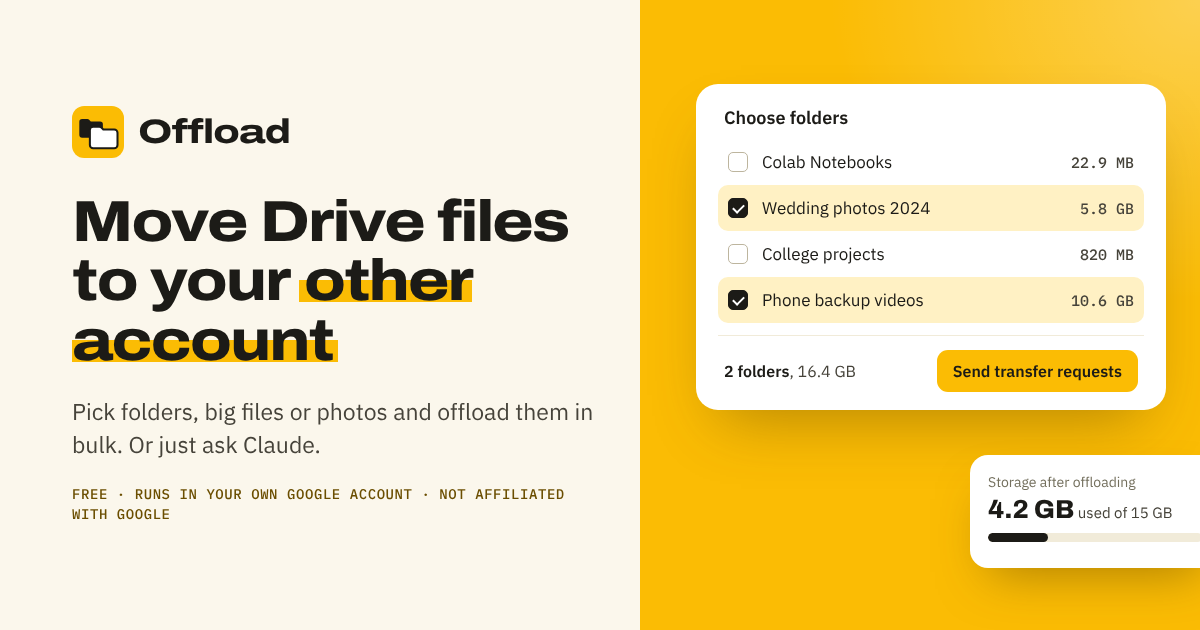
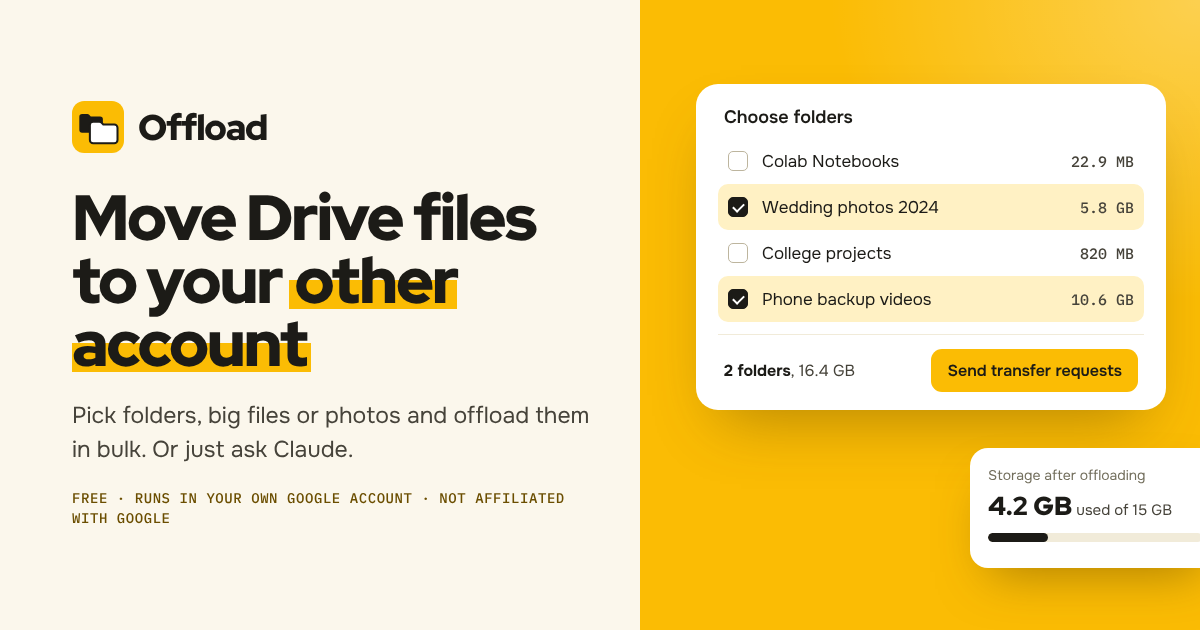
Landing: Red Hat Display headings with Onest text
Swaps Archivo and IBM Plex Sans for Red Hat Display (black weight, tight
tracking) on headings and Onest for body text; IBM Plex Mono stays for
labels and sizes. Buttons now inherit the site font (they fell back to
the browser default before). The link preview image is regenerated with
the new type.

Claude-Session: https://claude.ai/code/session_01AbxcsA9vi9YHEP1o9TvfGQ

diff --git a/app/globals.css b/app/globals.css
@@ -5,13 +5,14 @@
   --hair:#E6DFCB; --hover:#F7F1E1; --slate-soft:#F1EBD9;
   --sun:#FBBC04; --sun-deep:#E9A800; --sun-soft:#FFF1C4; --sun-ink:#6B4E00;
   --amber:#9A6516; --amber-soft:#FBF1DE; --red:#B4413A;
-  --font:"IBM Plex Sans", system-ui, sans-serif;
-  --display:"Archivo Variable", "Archivo", system-ui, sans-serif;
+  --font:"Onest Variable", "Onest", system-ui, sans-serif;
+  --display:"Red Hat Display Variable", "Red Hat Display", system-ui, sans-serif;
   --mono:"IBM Plex Mono", ui-monospace, SFMono-Regular, Menlo, monospace;
 }
 * { box-sizing:border-box; }
 html { -webkit-text-size-adjust:100%; scroll-behavior:smooth; }
 body { margin:0; background:var(--mist); color:var(--ink); font:17px/1.6 var(--font); -webkit-font-smoothing:antialiased; }
+button, input, select, textarea { font:inherit; }
 a { color:var(--ink); text-decoration-color:var(--sun-deep); text-decoration-thickness:2px; text-underline-offset:3px; }
 a:hover { text-decoration-color:var(--ink); }
 :focus-visible { outline:2px solid var(--ink); outline-offset:3px; border-radius:6px; }
@@ -27,7 +28,7 @@ a:hover { text-decoration-color:var(--ink); }
 .brand { text-decoration:none; color:var(--ink); }
 .logo { display:inline-flex; align-items:center; gap:10px; }
 .logo svg { display:block; }
-.logo-word { font-family:var(--display); font-stretch:125%; font-weight:800; font-size:21px; letter-spacing:-0.02em; color:var(--ink); }
+.logo-word { font-family:var(--display); font-weight:900; font-size:23px; letter-spacing:-0.035em; color:var(--ink); }
 .top-nav { display:flex; align-items:center; gap:24px; }
 .top-nav a:not(.btn) { color:var(--ink-2); text-decoration:none; font-size:15px; font-weight:500; }
 .top-nav a:not(.btn):hover { color:var(--ink); }
@@ -49,7 +50,7 @@ a:hover { text-decoration-color:var(--ink); }
 .news:hover { border-color:var(--ink); color:var(--ink); }
 .news-tag { background:var(--sun); color:var(--ink); font-size:12px; font-weight:700; border-radius:999px; padding:2px 9px; }
 .kicker { color:var(--sun-ink); font-family:var(--mono); font-weight:500; font-size:13px; letter-spacing:.06em; text-transform:uppercase; margin:0 0 16px; }
-h1 { font-family:var(--display); font-stretch:115%; font-size:clamp(36px, 5vw, 60px); line-height:1.02; letter-spacing:-0.03em; margin:0 0 22px; font-weight:800; text-wrap:balance; }
+h1 { font-family:var(--display); font-size:clamp(40px, 5.4vw, 66px); line-height:.98; letter-spacing:-0.035em; margin:0 0 22px; font-weight:900; text-wrap:balance; }
 /* the one signature touch: a highlighter stroke under a few key words */
 mark { color:inherit; background:linear-gradient(transparent 50%, var(--sun) 50%, var(--sun) 84%, transparent 84%); padding:0 .08em; margin:0 -.04em; -webkit-box-decoration-break:clone; box-decoration-break:clone; }
 .lede { font-size:20px; color:var(--ink-2); margin:0 0 30px; max-width:33em; text-wrap:pretty; }
@@ -70,7 +71,7 @@ mark { color:inherit; background:linear-gradient(transparent 50%, var(--sun) 50%
 .meter-label { font-size:12px; color:var(--muted); font-weight:500; }
 .meter-email { font-size:13px; color:var(--ink-2); overflow:hidden; text-overflow:ellipsis; white-space:nowrap; margin-bottom:6px; }
 .meter-val { font-size:13px; color:var(--ink-2); margin:auto 0 8px; display:flex; align-items:baseline; gap:4px; flex-wrap:wrap; }
-.meter-val b { font-family:var(--display); font-size:20px; color:var(--ink); letter-spacing:-0.01em; font-variant-numeric:tabular-nums; }
+.meter-val b { font-family:var(--display); font-weight:900; font-size:21px; color:var(--ink); letter-spacing:-0.01em; font-variant-numeric:tabular-nums; }
 .meter-warn { color:var(--red); background:#FBE9E7; font-weight:600; font-size:11.5px; padding:1px 8px; border-radius:999px; white-space:nowrap; }
 .meter-bar { height:8px; border-radius:8px; background:var(--slate-soft); overflow:hidden; }
 .meter-bar i { display:block; height:100%; background:var(--ink); border-radius:8px; transition:width .6s cubic-bezier(.2,.8,.2,1), background-color .3s; }
@@ -95,8 +96,8 @@ mark { color:inherit; background:linear-gradient(transparent 50%, var(--sun) 50%
 
 /* sections */
 .block { padding:60px 0; border-top:1px solid var(--hair); }
-h2 { font-family:var(--display); font-stretch:110%; font-weight:800; font-size:clamp(28px, 3.4vw, 40px); letter-spacing:-0.025em; line-height:1.12; margin:0 0 28px; text-wrap:balance; }
-h3 { font-family:var(--display); font-weight:700; font-size:19px; margin:0 0 6px; letter-spacing:-0.01em; line-height:1.3; }
+h2 { font-family:var(--display); font-weight:900; font-size:clamp(30px, 3.8vw, 44px); letter-spacing:-0.03em; line-height:1.04; margin:0 0 28px; text-wrap:balance; }
+h3 { font-family:var(--display); font-weight:800; font-size:20px; margin:0 0 6px; letter-spacing:-0.015em; line-height:1.3; }
 
 .steps { list-style:none; margin:0; padding:0; display:grid; grid-template-columns:repeat(3, 1fr); gap:36px; }
 .steps li { display:flex; gap:16px; }
@@ -159,7 +160,7 @@ h3 { font-family:var(--display); font-weight:700; font-size:19px; margin:0 0 6px
 .faq-side p { color:var(--ink-2); margin:0 0 20px; max-width:30ch; }
 .faq { border-top:1px solid var(--hair); }
 details { border-bottom:1px solid var(--hair); }
-summary { cursor:pointer; list-style:none; font-family:var(--display); font-weight:700; font-size:18px; padding:18px 40px 18px 0; position:relative; transition:color .12s; }
+summary { cursor:pointer; list-style:none; font-family:var(--display); font-weight:800; font-size:19px; letter-spacing:-0.01em; padding:18px 40px 18px 0; position:relative; transition:color .12s; }
 summary:hover { color:var(--sun-ink); }
 summary::-webkit-details-marker { display:none; }
 summary::after { content:""; position:absolute; right:8px; top:26px; width:9px; height:9px; border-right:2px solid var(--muted); border-bottom:2px solid var(--muted); transform:rotate(45deg); transition:transform .15s; }

diff --git a/lib/mcp/oauth.ts b/lib/mcp/oauth.ts
@@ -113,7 +113,7 @@ export function page(o: { step?: string; title: string; body: string; button?: B
   @media (prefers-color-scheme: dark) { :root { --bg:#15140F; --card:#1F1E18; --text:#F2EEE2; --muted:#A9A390; --line:#36332A; --accent:#FBBC04; --accent-text:#1C1B17; --ok:#F7CB4D; --bad:#F0A29C; } }
   * { box-sizing: border-box; }
   body { margin:0; min-height:100vh; display:grid; place-items:center; padding:24px 16px; background:var(--bg); color:var(--text);
-         font:16px/1.55 "IBM Plex Sans", system-ui, -apple-system, "Segoe UI", Roboto, sans-serif; }
+         font:16px/1.55 "Onest", system-ui, -apple-system, "Segoe UI", Roboto, sans-serif; }
   main { width:100%; max-width:440px; background:var(--card); border:1px solid var(--line); border-radius:16px; padding:28px; }
   .brand { display:flex; align-items:center; gap:10px; font-weight:650; margin-bottom:20px; }
   .brand img { width:28px; height:28px; border-radius:7px; }

diff --git a/app/layout.tsx b/app/layout.tsx
@@ -1,8 +1,6 @@
 import type { Metadata, Viewport } from "next";
-import "@fontsource-variable/archivo/wdth.css";
-import "@fontsource/ibm-plex-sans/400.css";
-import "@fontsource/ibm-plex-sans/500.css";
-import "@fontsource/ibm-plex-sans/600.css";
+import "@fontsource-variable/red-hat-display";
+import "@fontsource-variable/onest";
 import "@fontsource/ibm-plex-mono/400.css";
 import "@fontsource/ibm-plex-mono/500.css";
 import "./globals.css";
